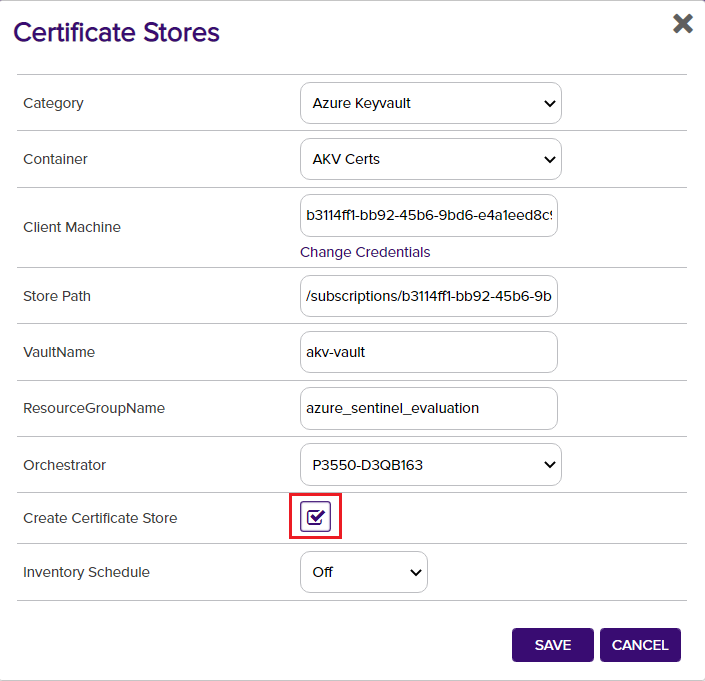
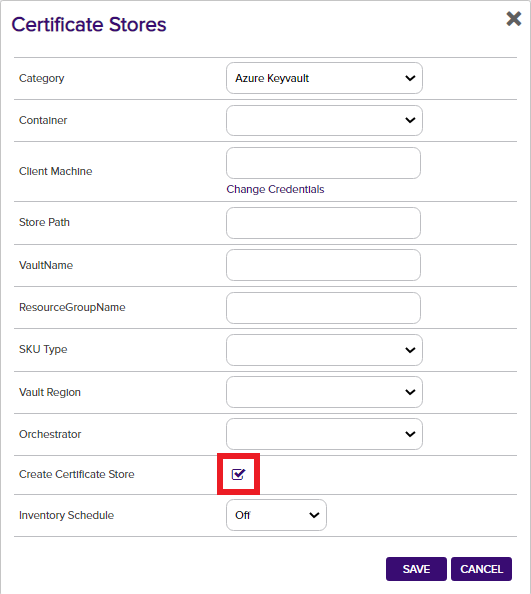
updated readme screenshots

diff --git a/readme_source.md b/readme_source.md
@@ -352,7 +352,7 @@ Now that we have the extension registered on the Orchestrator, we can navigate b
 - For User assigned managed identity:
   - `Client Machine` should be set to the GUID of the tenant ID of the instance of Azure Keyvault.
   - `User` should be set to the managed user ID.
-  - `Password` should be set to the value `managed`.
+  - `Password` should be set to the value **"managed"**.
 
 - For Service principal authentication:
   - `Client Machine` should be set to the GUID of the tenant ID of the instance of Azure Keyvault.
@@ -421,6 +421,8 @@ To add one of these results to Keyfactor as a certificate store:
 
 1) Select a container to store the certificates for this cert store (optional)
 
+1) Select any value for SKU Type and Vault Region.  These values are not used for existing KeyVaults.
+
 1) Click "SAVE".
 
 ### Add an individual Azure Keyvault certificate store
@@ -446,6 +448,8 @@ The steps to do this are:
 - **Store Path**: This is the Azure Resource Identifier for the Keyvault.  Copied from Azure, or created a new Keyvault (see below).  
 - **VaultName**: This is the name of the new or existing Azure Keyvault.
 - **ResourceGroupName**: The name of the Azure Resource Group that contains the Keyvault.
+- **SKU Type**: This field is only used when creating new vaults in Azure.  Select any value, or leave blank.
+- **Vault Region**: This field is also only used when creating new vaults.  Select any value.
 
 If the vault already exists in azure:
 The store path can be found by navigating to the existing Keyvault resource in Azure and clicking "Properties" in the left menu.
